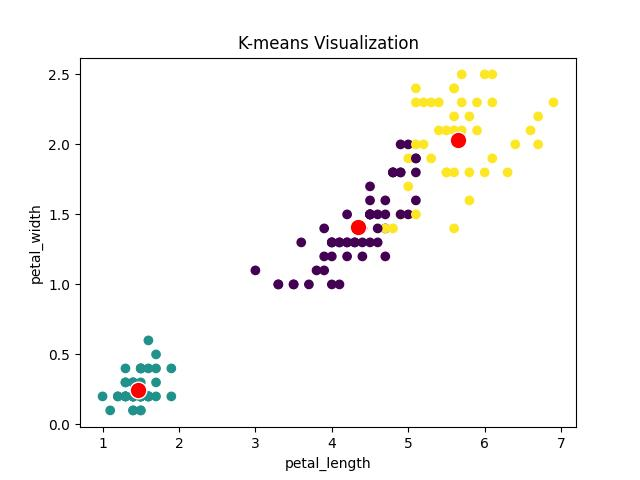
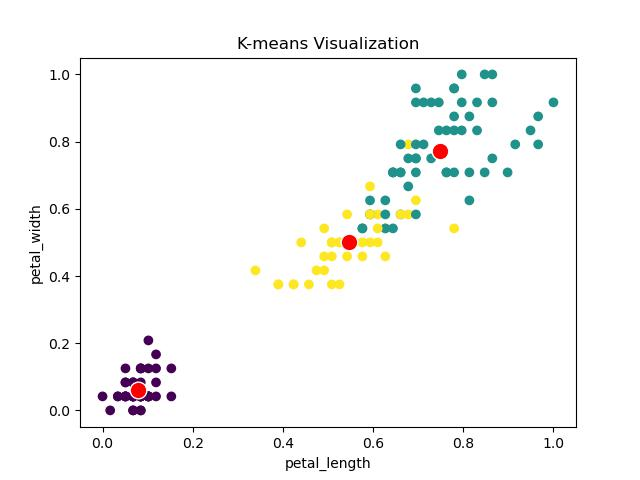
Fixed kmeans

diff --git a/kmeans.py b/kmeans.py
@@ -35,7 +35,10 @@ def reassign_centroids(data, data_length, assignments, K):
         for n in range(data_length):
             if assignments[n] == i:
                 clustered_points.append(data[n])
-        cluster_mean = np.mean(clustered_points, axis=0)
+        if len(clustered_points)>0:
+            cluster_mean = np.mean(clustered_points, axis=0)
+        else:
+            cluster_mean = np.mean(0)
         reassigned_centroids.append(cluster_mean)
     return reassigned_centroids
 
@@ -52,7 +55,7 @@ def wcss(data, data_length, assignments, centroids):
     return wcss_total
 
 
-def kmeans(data, data_length, K, iterations=100, tolerance_level=0.01):
+def kmeans(data, data_length, K, iterations=100, tolerance_level=0.001):
     current_iteration = -1
     wcss_list = []
     assignments = []
@@ -69,6 +72,11 @@ def kmeans(data, data_length, K, iterations=100, tolerance_level=0.01):
 
 columns = ['sepal_length', 'sepal_width', 'petal_length', 'petal_width', 'target']
 iris_data = pd.read_csv('data.csv', names=columns)
+
+
+for column in iris_data.columns:
+    iris_data[column] = \
+        (iris_data[column] - iris_data[column].min()) / (iris_data[column].max() - iris_data[column].min())
 
 values_list = iris_data.drop(columns=['target']).values.tolist()
 
@@ -89,11 +97,13 @@ for a1 in range(0,4):
         plt.ylabel(columns[a2])
         plt.savefig("output/kMeans/"+columns[a1]+"-"+columns[a2]+".jpg")
         plt.show()
+        #plt.clf()
 f = open("output/kMeans/raport.txt", "w")
 iteration_list = []
 wcss_list = []
 for k in range (2,11):
     calculated_kmeans = kmeans(values_list, len(values_list), K=k)
+    print(f"WCSS list for k={k}: {calculated_kmeans[2]}")
     wcss_list.append([k,calculated_kmeans[2][-1]])
     iteration_list.append(calculated_kmeans[3])
     f.write(f"Amount of iterations for k={k}:{calculated_kmeans[3]}, WCSS = {calculated_kmeans[2][-1]}\n")
